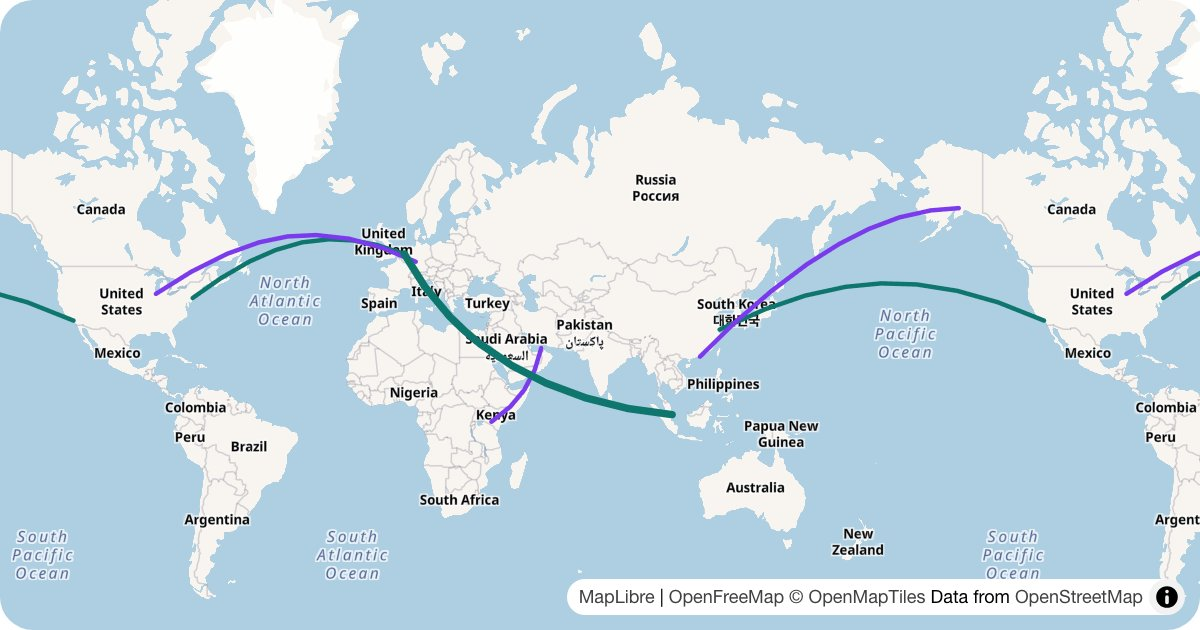
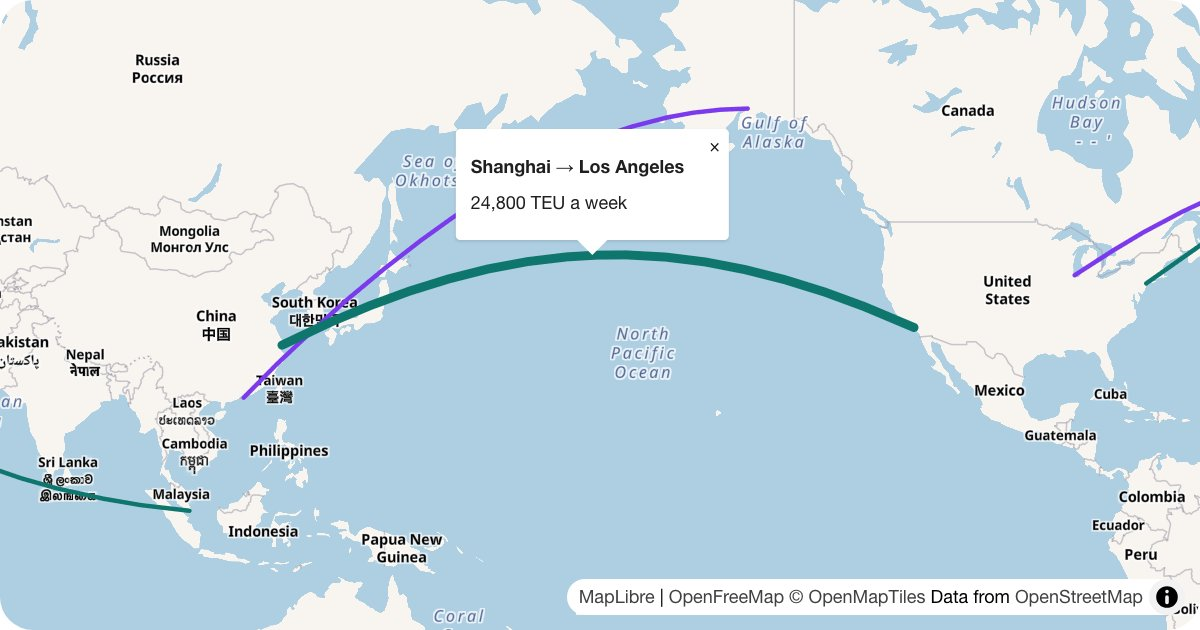
[upd] W73: Trade lanes' pictures show Shanghai to Los Angeles selected, its card open

diff --git a/scripts/example-shots/plans.ts b/scripts/example-shots/plans.ts
@@ -138,10 +138,14 @@ export const SHOT_PLANS: readonly ShotPlan[] = [
     // The globe close, past the picture's top and bottom, the plane over the Atlantic in view.
     stage: (scene) => scene.view({ center: { lat: 40, lng: -12 }, zoom: 2.55 }),
   },
+  // Shanghai to Los Angeles selected, its card open over the Pacific.
   {
     name: "trade-lanes",
     hidesList: true,
-    stage: (scene) => scene.hover("singapore-rotterdam"),
+    stage: async (scene) => {
+      await scene.select("shanghai-los-angeles", { pan: false });
+      await scene.view({ center: { lat: 36, lng: -178 }, zoom: 2.3 });
+    },
   },
   { name: "route", hidesList: true },
   // The clusters' badges, centred on the points (North America), with room around them.
